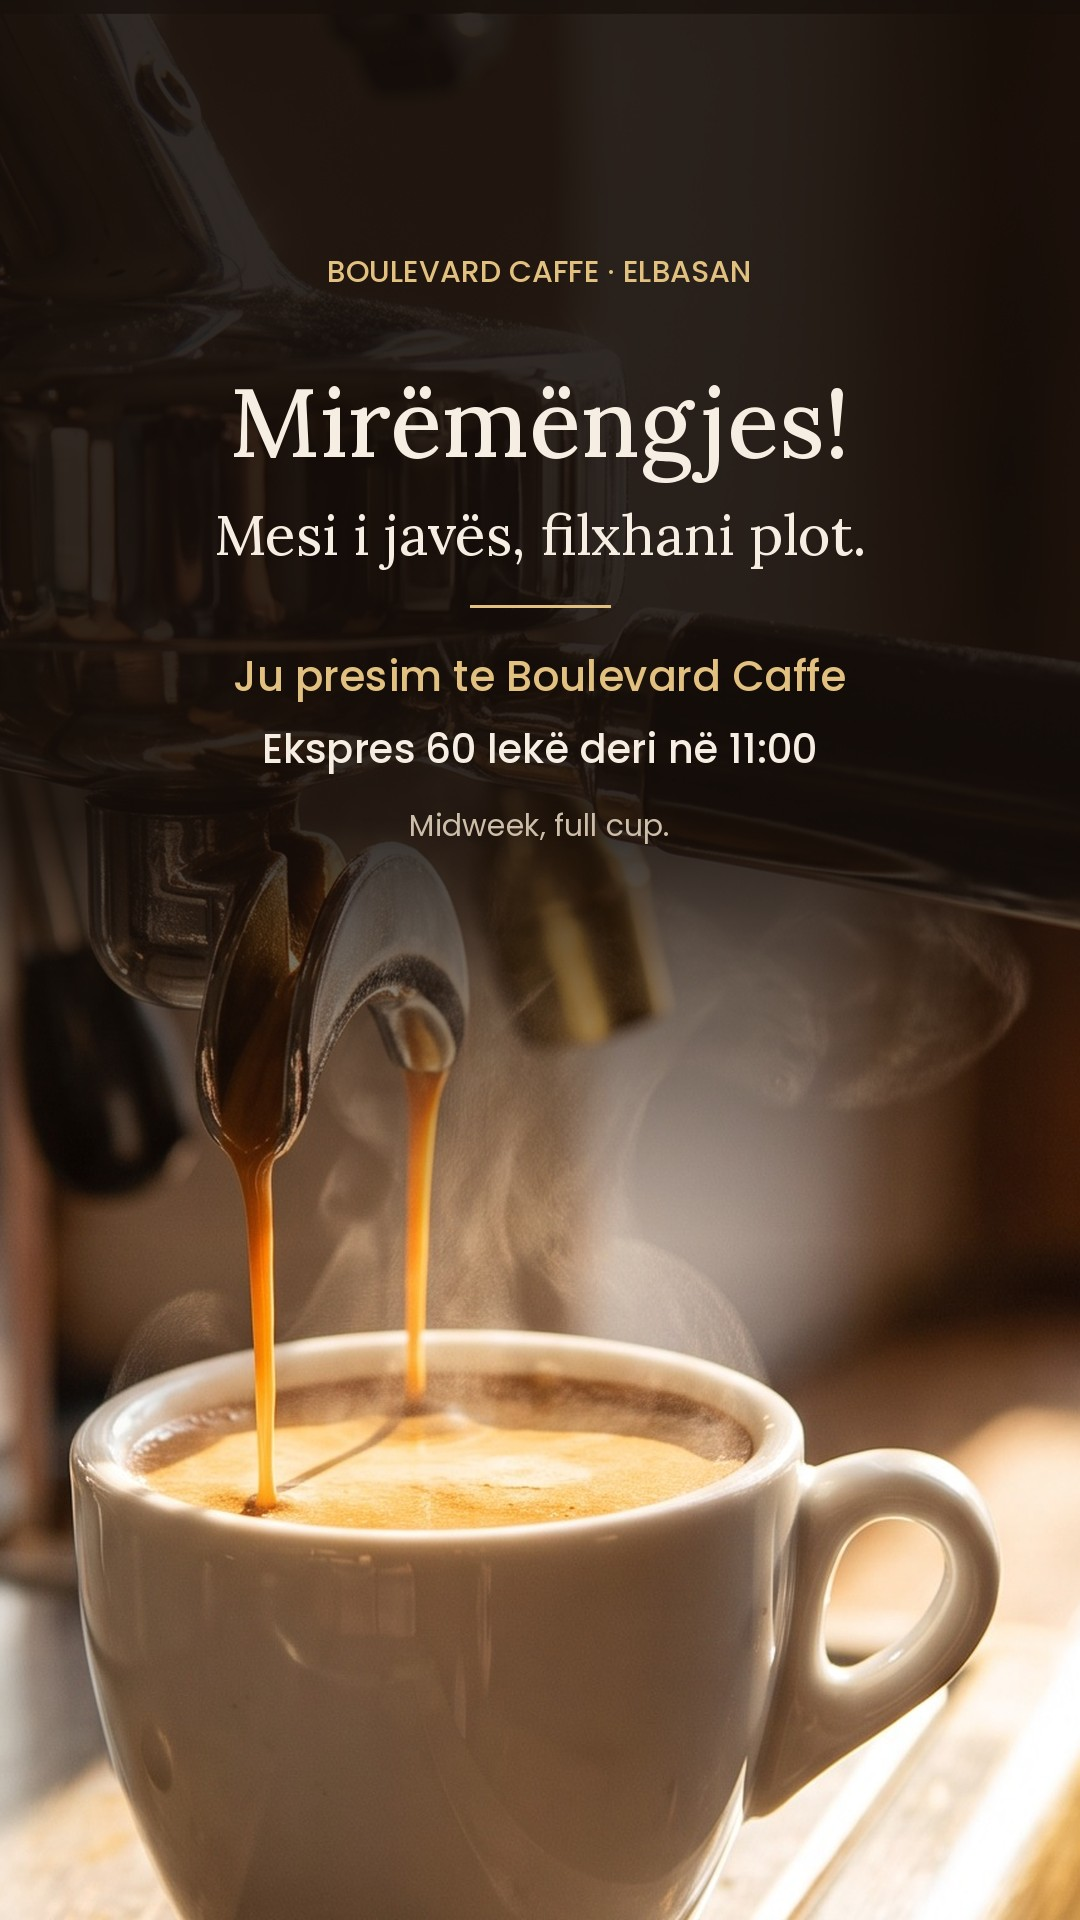
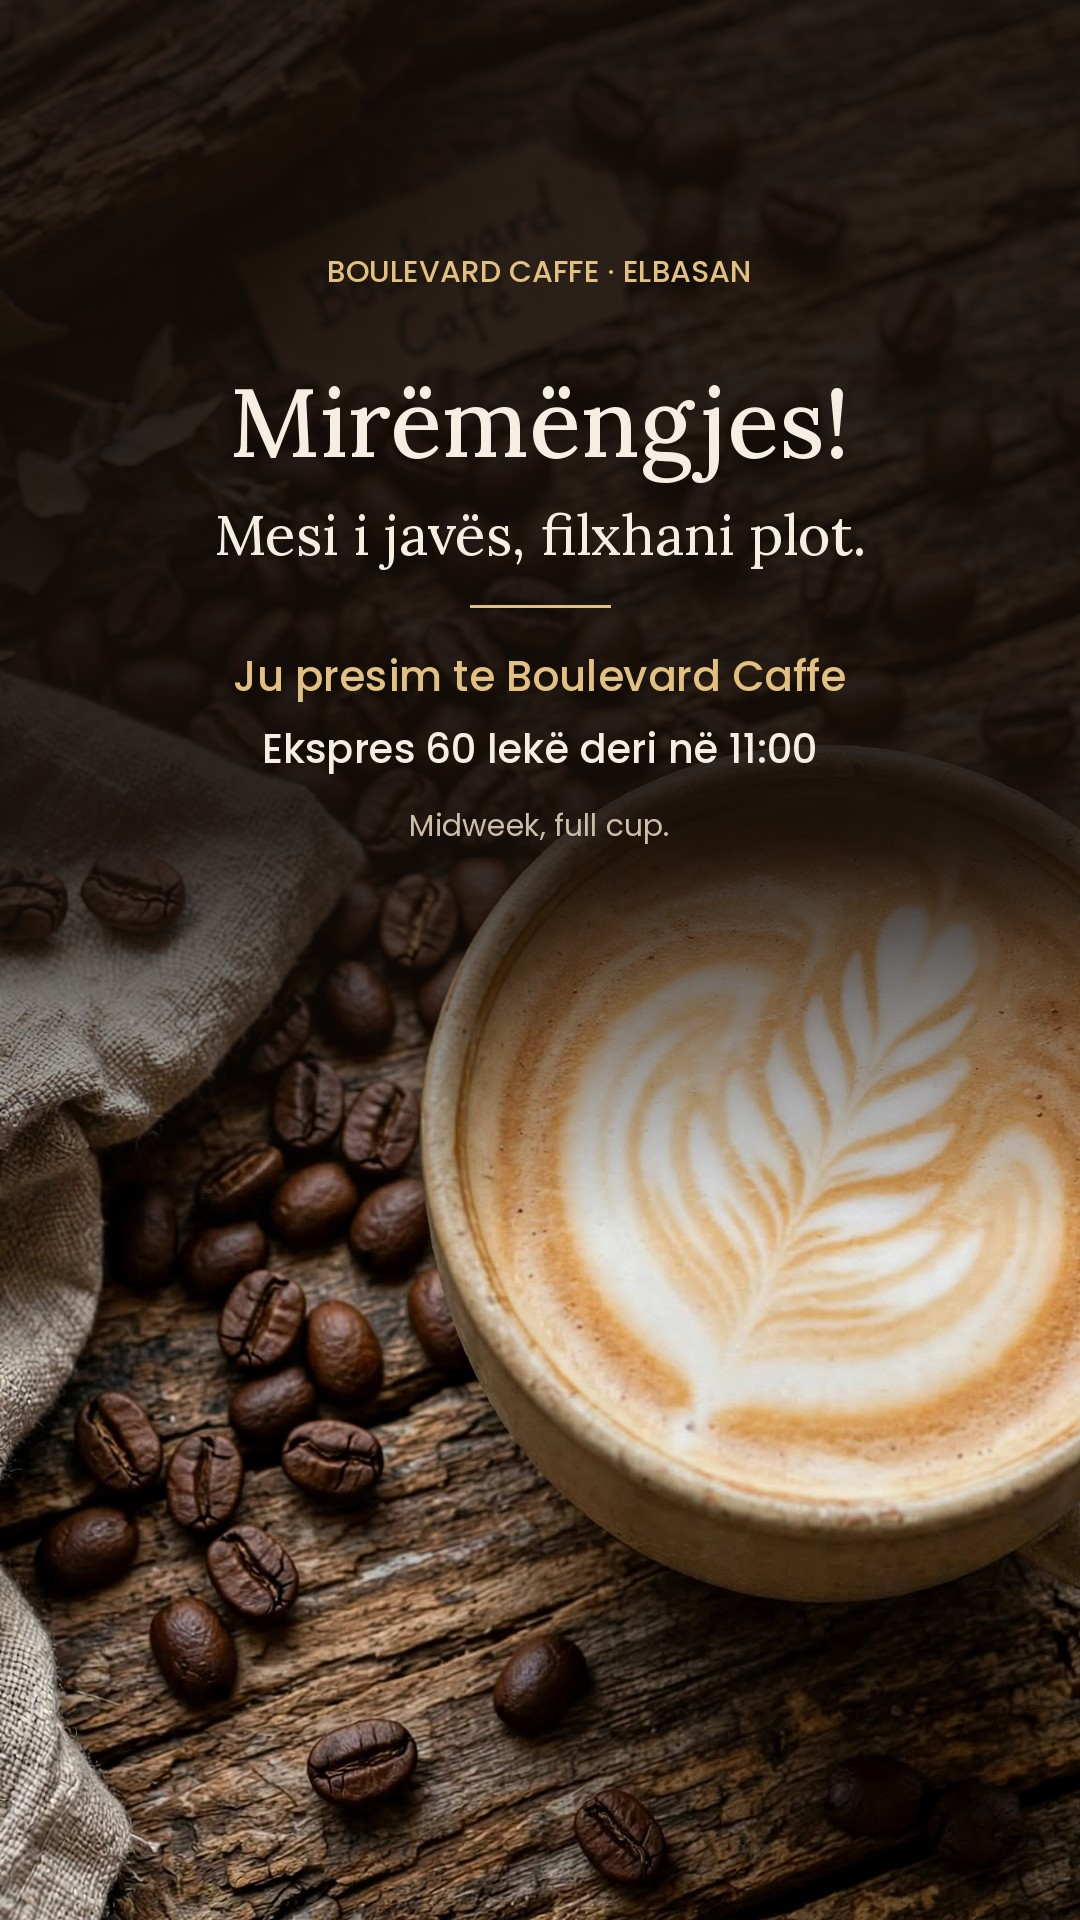
Rotate morning Story photos by weekday
Claude-Session: https://claude.ai/code/session_01BXnNWV21129nXVSCLX7x1d

diff --git a/tools/greeting.py b/tools/greeting.py
@@ -22,6 +22,10 @@ LINES = [
     ("E diel e qetë", "dhe një kafe e ngrohtë.", "Slow Sunday, warm coffee."),
 ]
 
+# one photo per weekday, Monday first
+BASES = ["espresso.jpg", "latte-flatlay.jpg", "latte-beans.jpg", "avocado-toast.jpg",
+         "cheers.jpg", "terrace.jpg", "latte-flatlay.jpg"]
+
 def lora(s, w=500):
     f = ImageFont.truetype(os.path.join(T, "Lora-Variable.ttf"), s)
     try: f.set_variation_by_axes([w])
@@ -36,12 +40,12 @@ def center(d, y, txt, f, fill):
 
 def render(date, offer=None):
     wd = date.weekday()
-    photo = Image.open(os.path.join(ROOT, "media", "base", "espresso.jpg")).convert("RGB")
-    s = H / photo.height
-    photo = photo.resize((int(photo.width * s), H), Image.LANCZOS)
-    x = (photo.width - W) // 2 + [-60, 0, 60, -30, 30, -90, 90][wd]
-    x = max(0, min(photo.width - W, x))
-    im = photo.crop((x, 0, x + W, H))
+    base = BASES[wd]
+    photo = Image.open(os.path.join(ROOT, "media", "base", base)).convert("RGB")
+    s = max(W / photo.width, H / photo.height)
+    photo = photo.resize((int(photo.width * s) + 1, int(photo.height * s) + 1), Image.LANCZOS)
+    x, y0 = (photo.width - W) // 2, (photo.height - H) // 2
+    im = photo.crop((x, y0, x + W, y0 + H))
     # soft dark gradient on the top half for legible text
     grad = Image.new("L", (1, H))
     for y in range(H):
